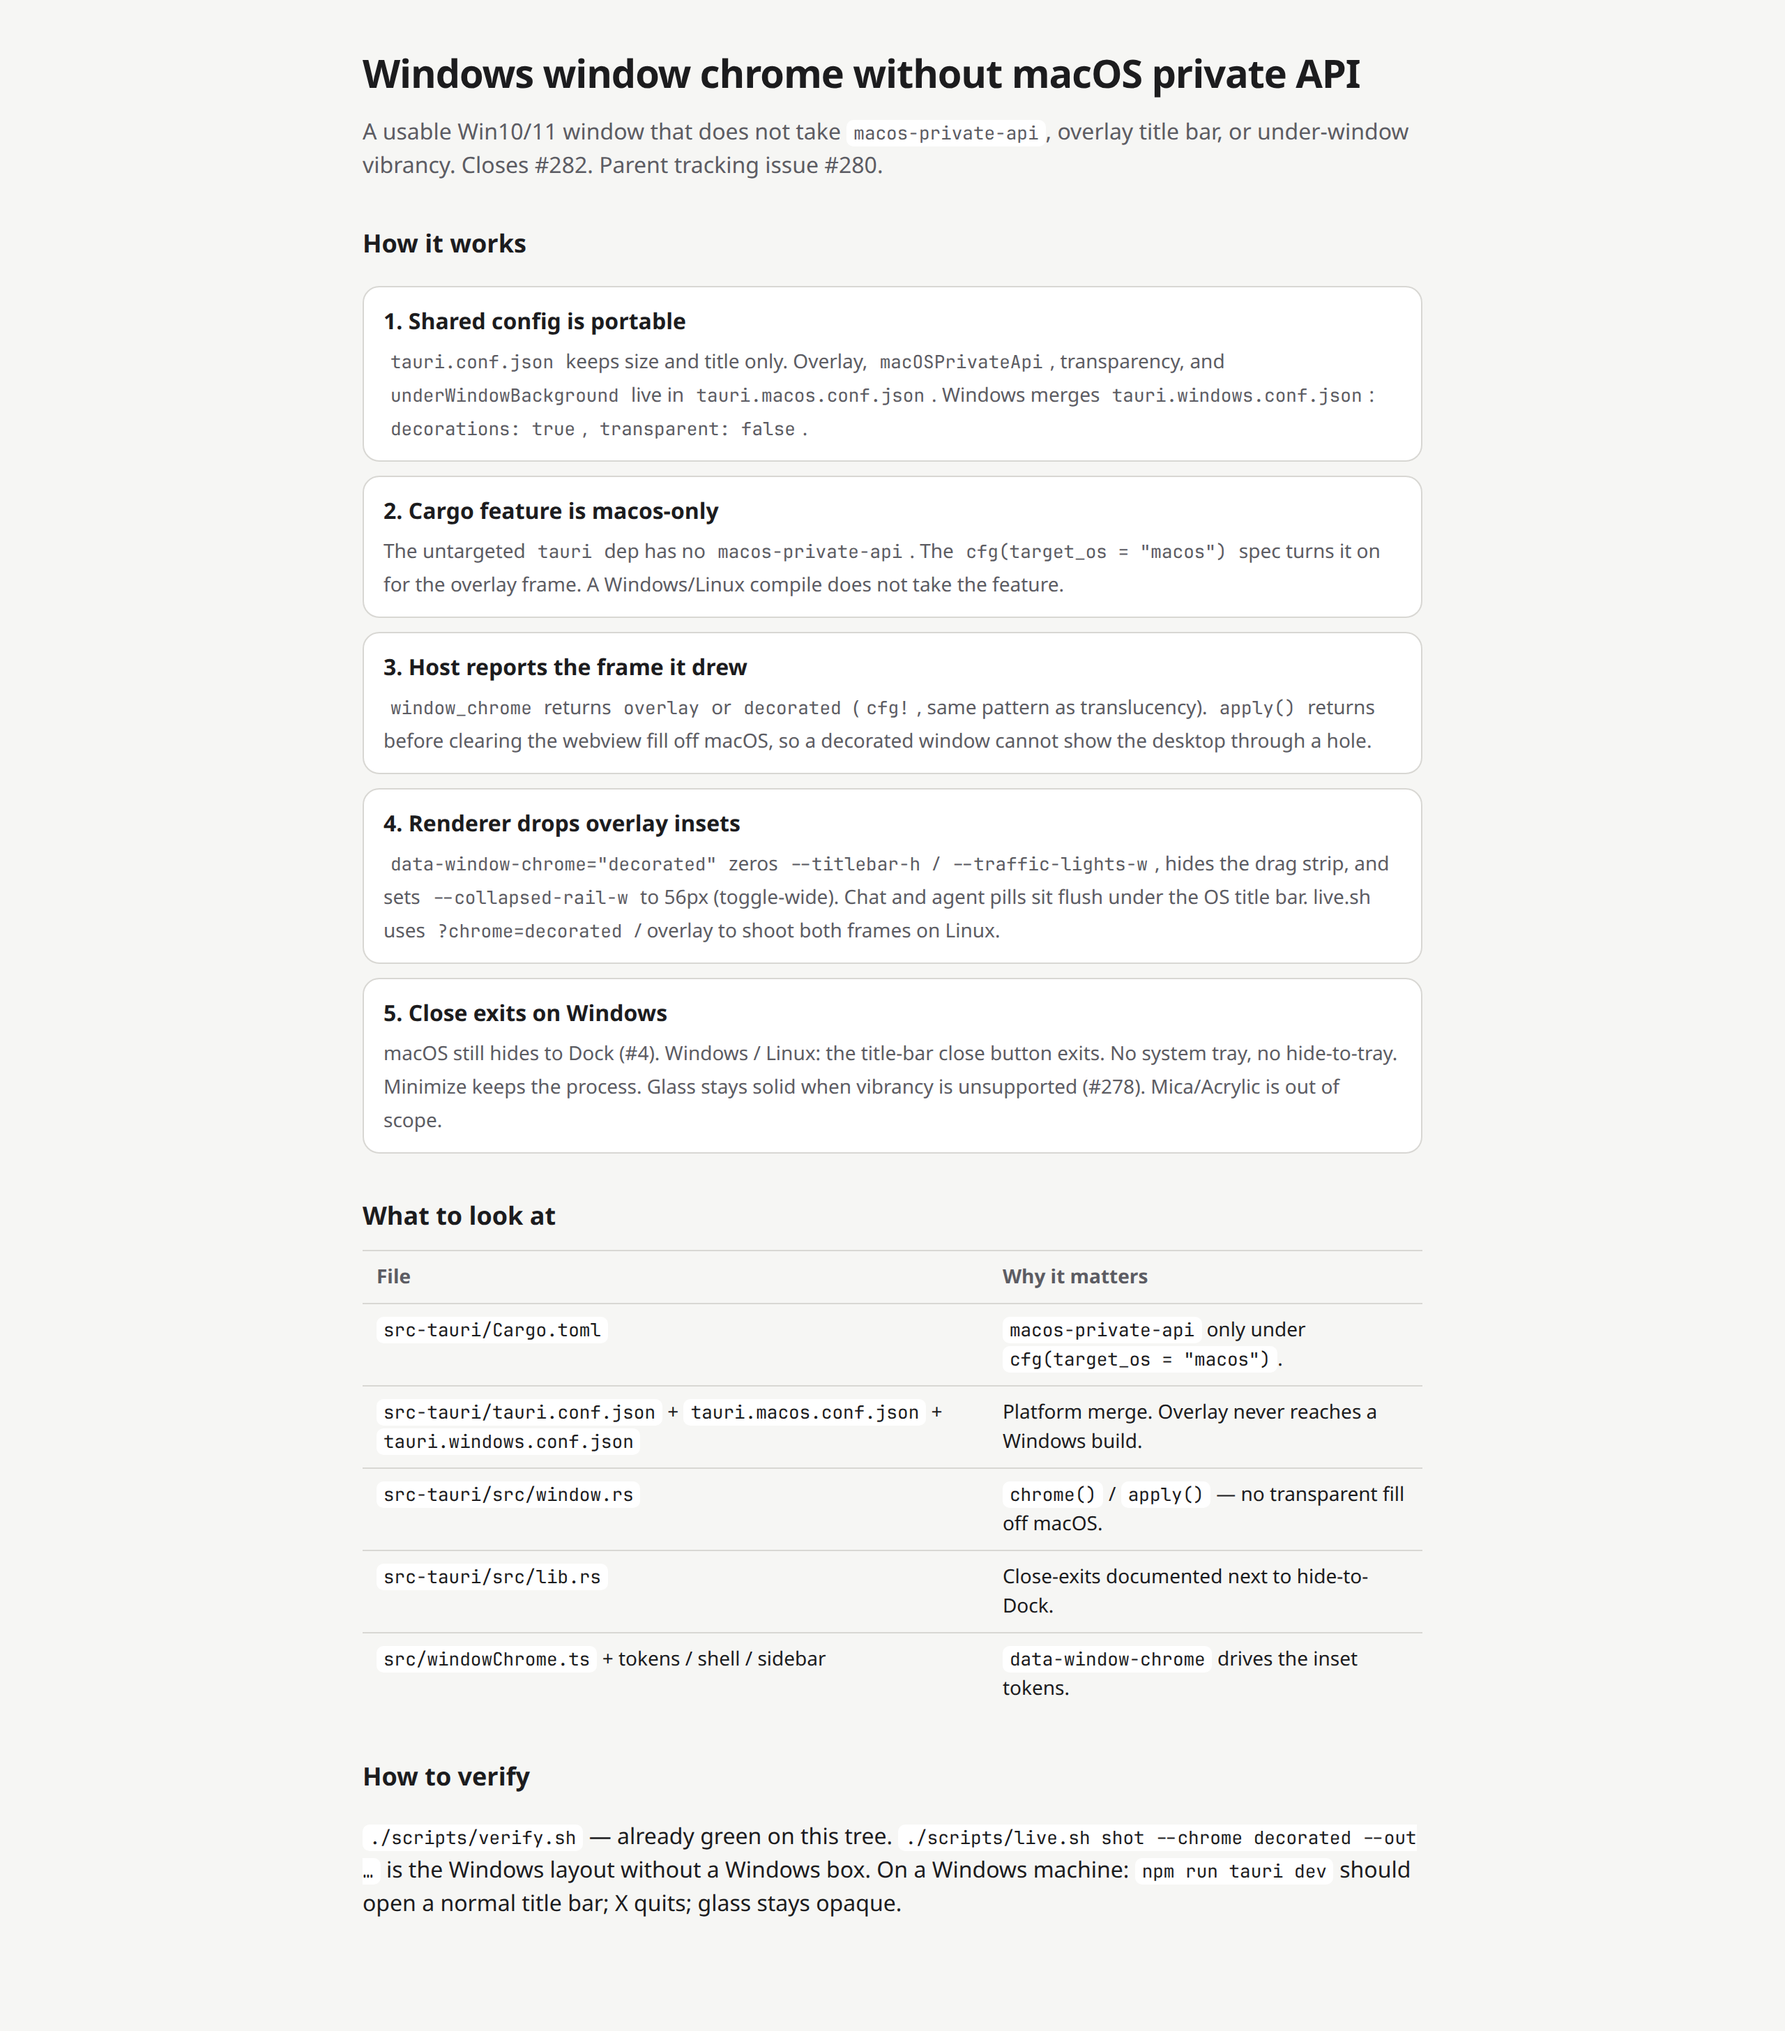
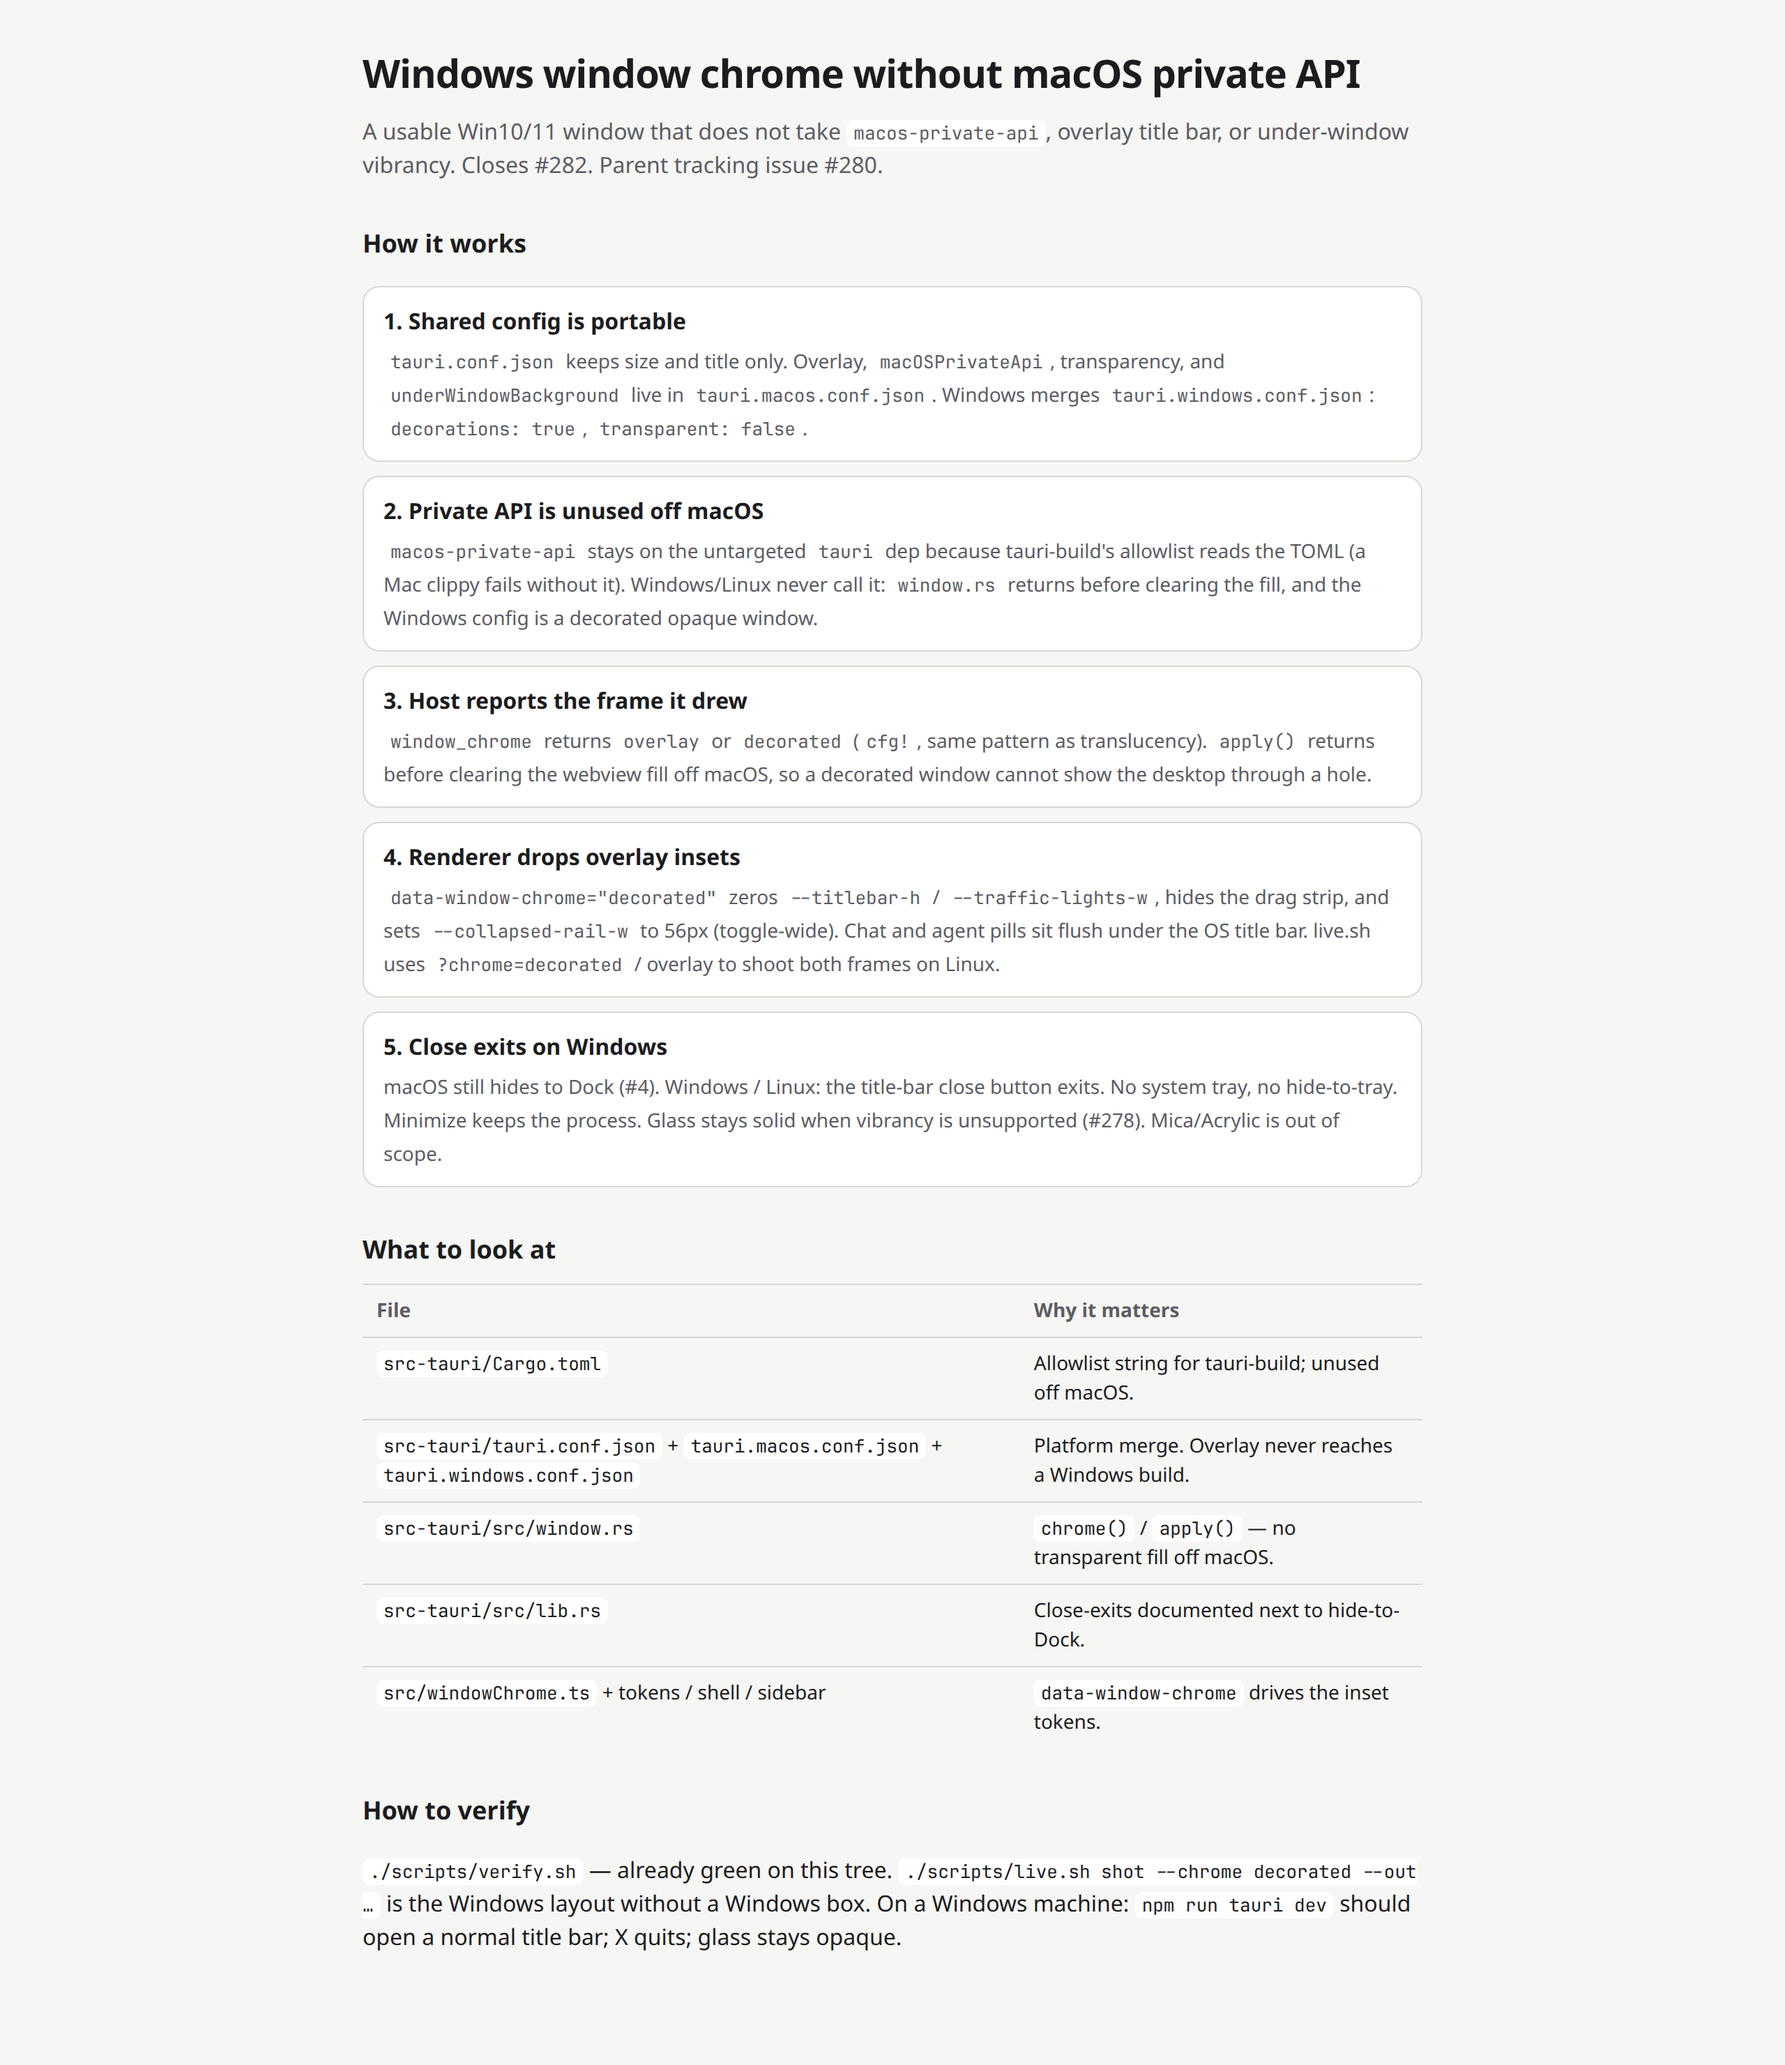
Fix macos clippy allowlist and Playwright Desktop Chrome UA.
tauri-build reads macos-private-api from the untargeted tauri
features list, so a Mac cargo clippy --lib fails when the string
is only on the macos target dep. Put it back; Windows still never
calls the API.

Do not treat a Windows UA as decorated outside Tauri. Playwright
Desktop Chrome is that UA on Linux and was shifting every Chromium
visual baseline.

diff --git a/src/__tests__/window-chrome.test.ts b/src/__tests__/window-chrome.test.ts
@@ -35,15 +35,21 @@ describe("previewWindowChrome", () => {
 });
 
 describe("inferredWindowChrome", () => {
-  it("is decorated only on a Windows UA", () => {
+  it("stays overlay for a Windows UA outside Tauri (Playwright Desktop Chrome)", () => {
     expect(
-      inferredWindowChrome("Mozilla/5.0 (Macintosh; Intel Mac OS X)"),
+      inferredWindowChrome("Mozilla/5.0 (Windows NT 10.0; Win64; x64)", false),
     ).toBe("overlay");
-    expect(inferredWindowChrome("Mozilla/5.0 (X11; Linux x86_64)")).toBe(
+    expect(inferredWindowChrome("Mozilla/5.0 (X11; Linux x86_64)", false)).toBe(
       "overlay",
     );
+  });
+
+  it("is decorated only for a Windows Tauri webview", () => {
     expect(
-      inferredWindowChrome("Mozilla/5.0 (Windows NT 10.0; Win64; x64)"),
+      inferredWindowChrome("Mozilla/5.0 (Macintosh; Intel Mac OS X)", true),
+    ).toBe("overlay");
+    expect(
+      inferredWindowChrome("Mozilla/5.0 (Windows NT 10.0; Win64; x64)", true),
     ).toBe("decorated");
   });
 });
@@ -58,6 +64,7 @@ describe("resolveWindowChrome", () => {
         null,
         "?chrome=overlay",
         "Mozilla/5.0 (Windows NT 10.0)",
+        true,
       ),
     ).toBe("overlay");
   });
@@ -67,10 +74,13 @@ describe("resolveWindowChrome", () => {
     expect(resolveWindowChrome("overlay", "")).toBe("overlay");
   });
 
-  it("falls back to the UA, then overlay", () => {
-    expect(resolveWindowChrome(null, "", "Mozilla/5.0 (Windows NT 10.0)")).toBe(
-      "decorated",
-    );
+  it("falls back to Tauri+Windows, then overlay", () => {
+    expect(
+      resolveWindowChrome(null, "", "Mozilla/5.0 (Windows NT 10.0)", true),
+    ).toBe("decorated");
+    expect(
+      resolveWindowChrome(null, "", "Mozilla/5.0 (Windows NT 10.0)", false),
+    ).toBe("overlay");
     expect(resolveWindowChrome(null, "", "Mozilla/5.0 (X11; Linux)")).toBe(
       "overlay",
     );

diff --git a/src/windowChrome.ts b/src/windowChrome.ts
@@ -29,27 +29,39 @@ export function previewWindowChrome(
   }
 }
 
+/** True only inside the Tauri webview, never in live.sh / Playwright / jsdom. */
+export function isTauriRuntime(
+  global: object | null = typeof window === "undefined" ? null : window,
+): boolean {
+  return global !== null && "__TAURI_INTERNALS__" in global;
+}
+
 /**
- * First-paint guess before the host answers. Windows UA is decorated so
- * the title-bar inset does not flash on; everything else stays overlay
- * (live.sh on Linux/macOS, jsdom, the shipping Mac app).
+ * First-paint guess before the host answers. Decorated only for a real
+ * Windows Tauri webview — Playwright's Desktop Chrome device uses a
+ * Windows UA on Linux, and that must stay the overlay shell or every
+ * Chromium visual baseline shifts.
  */
 export function inferredWindowChrome(
   userAgent: string = typeof navigator === "undefined"
     ? ""
     : navigator.userAgent,
+  inTauri: boolean = isTauriRuntime(),
 ): WindowChrome {
-  return /Windows/i.test(userAgent) ? "decorated" : "overlay";
+  return inTauri && /Windows/i.test(userAgent) ? "decorated" : "overlay";
 }
 
-/** Preview wins, then the host, then the UA guess, then overlay. */
+/** Preview wins, then the host, then the Tauri+Windows guess, then overlay. */
 export function resolveWindowChrome(
   native: WindowChrome | null,
   search?: string,
   userAgent?: string,
+  inTauri?: boolean,
 ): WindowChrome {
   return (
-    previewWindowChrome(search) ?? native ?? inferredWindowChrome(userAgent)
+    previewWindowChrome(search) ??
+    native ??
+    inferredWindowChrome(userAgent, inTauri)
   );
 }
 

diff --git a/docs/img/windows-chrome/walkthrough.html b/docs/img/windows-chrome/walkthrough.html
@@ -114,12 +114,13 @@
           </span>
         </div>
         <div class="step">
-          <strong>2. Cargo feature is macos-only</strong>
+          <strong>2. Private API is unused off macOS</strong>
           <span>
-            The untargeted <code>tauri</code> dep has no
-            <code>macos-private-api</code>. The
-            <code>cfg(target_os = "macos")</code> spec turns it on for the
-            overlay frame. A Windows/Linux compile does not take the feature.
+            <code>macos-private-api</code> stays on the untargeted
+            <code>tauri</code> dep because tauri-build's allowlist reads the
+            TOML (a Mac clippy fails without it). Windows/Linux never call
+            it: <code>window.rs</code> returns before clearing the fill, and
+            the Windows config is a decorated opaque window.
           </span>
         </div>
         <div class="step">
@@ -166,8 +167,7 @@
           <tr>
             <td><code>src-tauri/Cargo.toml</code></td>
             <td>
-              <code>macos-private-api</code> only under
-              <code>cfg(target_os = "macos")</code>.
+              Allowlist string for tauri-build; unused off macOS.
             </td>
           </tr>
           <tr>

diff --git a/index.html b/index.html
@@ -40,13 +40,16 @@
             document.documentElement.dataset.translucency = "on";
           }
         } catch (e) {}
-        // Overlay is the CSS default (macOS / live.sh). Windows UA and
-        // ?chrome=decorated drop the traffic-light inset before first paint
-        // so a decorated title bar does not flash 28px of empty chrome (#282).
+        // Overlay is the CSS default (macOS / live.sh / Playwright). A
+        // Windows *Tauri* webview and ?chrome=decorated drop the inset
+        // before first paint. Do not key off UA alone: Playwright's
+        // Desktop Chrome device is a Windows UA on Linux (#282).
         try {
-          var chrome = /Windows/i.test(navigator.userAgent)
-            ? "decorated"
-            : "overlay";
+          var inTauri = "__TAURI_INTERNALS__" in window;
+          var chrome =
+            inTauri && /Windows/i.test(navigator.userAgent)
+              ? "decorated"
+              : "overlay";
           var chromeMatch = /(?:^|[?&])chrome=(overlay|decorated)(?:&|$)/.exec(
             location.search,
           );

diff --git a/docs/requirements/desktop-host-lifecycle.md b/docs/requirements/desktop-host-lifecycle.md
@@ -60,8 +60,11 @@ in [`src-tauri/tauri.macos.conf.json`](../../src-tauri/tauri.macos.conf.json).
 The shared [`tauri.conf.json`](../../src-tauri/tauri.conf.json) is a
 portable decorated window; Windows merges
 [`tauri.windows.conf.json`](../../src-tauri/tauri.windows.conf.json)
-(`decorations: true`, `transparent: false`). `macos-private-api` is a
-macos-only Cargo feature so a Windows compile does not take it.
+(`decorations: true`, `transparent: false`). `macos-private-api` stays
+on the untargeted `tauri` dep because tauri-build's allowlist reads the
+TOML (a Mac `cargo clippy --lib` fails without it once
+`tauri.macos.conf.json` sets `macOSPrivateApi`). Windows/Linux never
+*call* the API: `window.rs` returns before clearing the webview fill.
 
 The renderer reads `window_chrome` and paints `data-window-chrome`.
 Decorated chrome zeros `--titlebar-h` / `--traffic-lights-w` so agent
